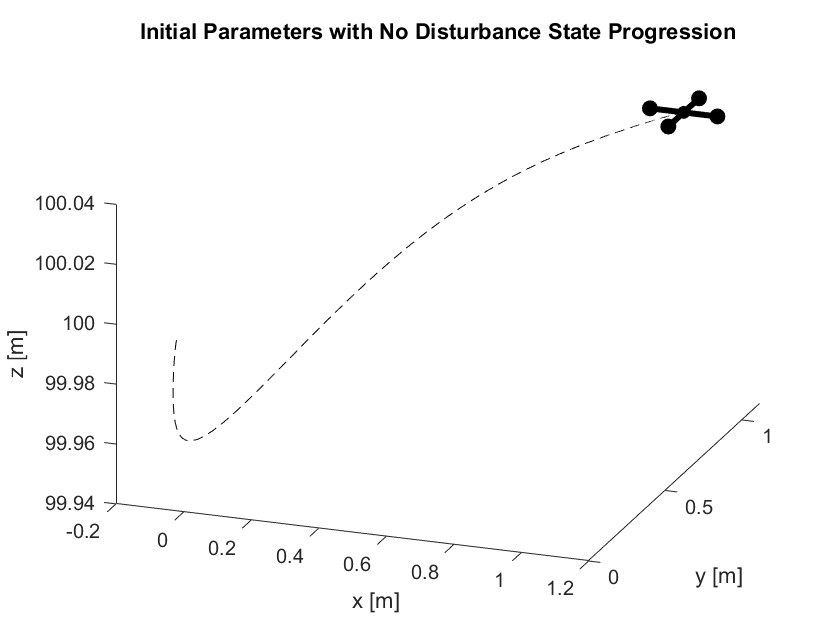
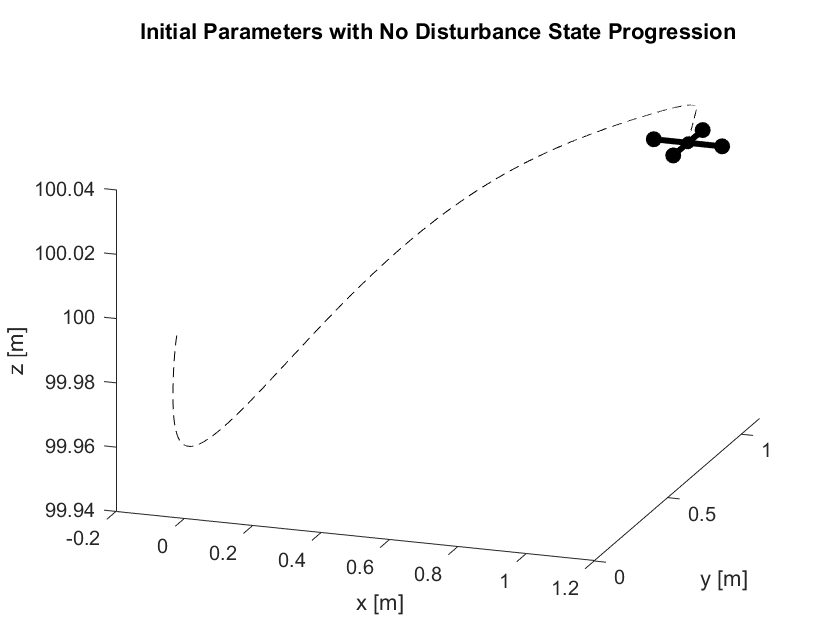
update plots

diff --git a/main.m b/main.m
@@ -3,7 +3,7 @@ addpath(genpath('.'))
 
 % Sim Constants
 SC.T = 1e-3;
-SC.t_final = 3.5;
+SC.t_final = 20;
 
 % Model
 % pendulum = PendulumModel(0.2, 0.2);
@@ -19,7 +19,7 @@ SC.t_final = 3.5;
 % tic;
 % disp("find optimal p")
 % [z, p, p_iteration, dist_zbar] = findOptimalqGradAscent(drone, SC, z0, ref, dist, zbar);
-drone = assignP(drone, p);
+% drone = assignP(drone, p);
 % toc;
 
 % t = 10000;
@@ -27,16 +27,16 @@ drone = assignP(drone, p);
 % dist.Fy(1:1+t) = 20*ones(1, 1+t);
 % dist.Fz(1:1+t) = -20*ones(1, 1+t);
 
-t = 1;
-dist.Fx(1:1+t) = -6*ones(1, 1+t);
-dist.Fy(1:1+t) = 6*ones(1, 1+t);
+% t = 1;
+% dist.Fx(1:1+t) = -6*ones(1, 1+t);
+% dist.Fy(1:1+t) = 6*ones(1, 1+t);
 
 [time, stateProgression, drone, stable] = trajectory(drone, SC, z0, false, ref, dist);
 % testTrajectorySensitivities(drone, SC, z0, stateProgression, ref, dist);
 % trajSens = droneTrajectorySensitivitiesHybrid.calculateTrajectorySensitivitiesParams(drone, SC, stateProgression, ref);
 % secondTrajSensParam = droneTrajectorySensitivitiesHybrid.calculateSecondOrderTrajectorySensitivitiesParams(drone, SC, stateProgression, trajSens, ref);
 % G = norms.infimumOfReciprocalOfOneNorm(trajSens);
-splotting.trajectoryPlot3d(time, stateProgression(:, 1), stateProgression(:, 2), stateProgression(:, 3), 1, "Optimal Parameters with Disturbance State Progression");
+splotting.trajectoryPlot3d(time, stateProgression(:, 1), stateProgression(:, 2), stateProgression(:, 3), 1, "Initial Parameters with No Disturbance State Progression");
 % splotting.trajectoryVideo(time, stateProgression);
 
 % figure(2)
